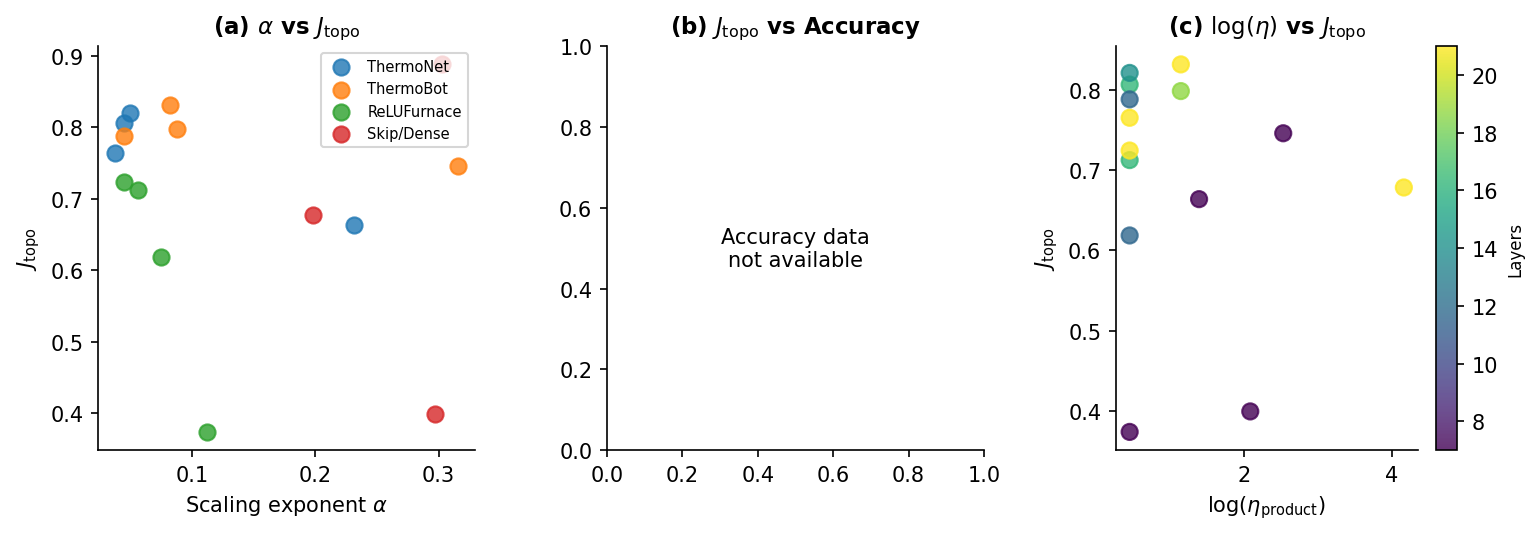
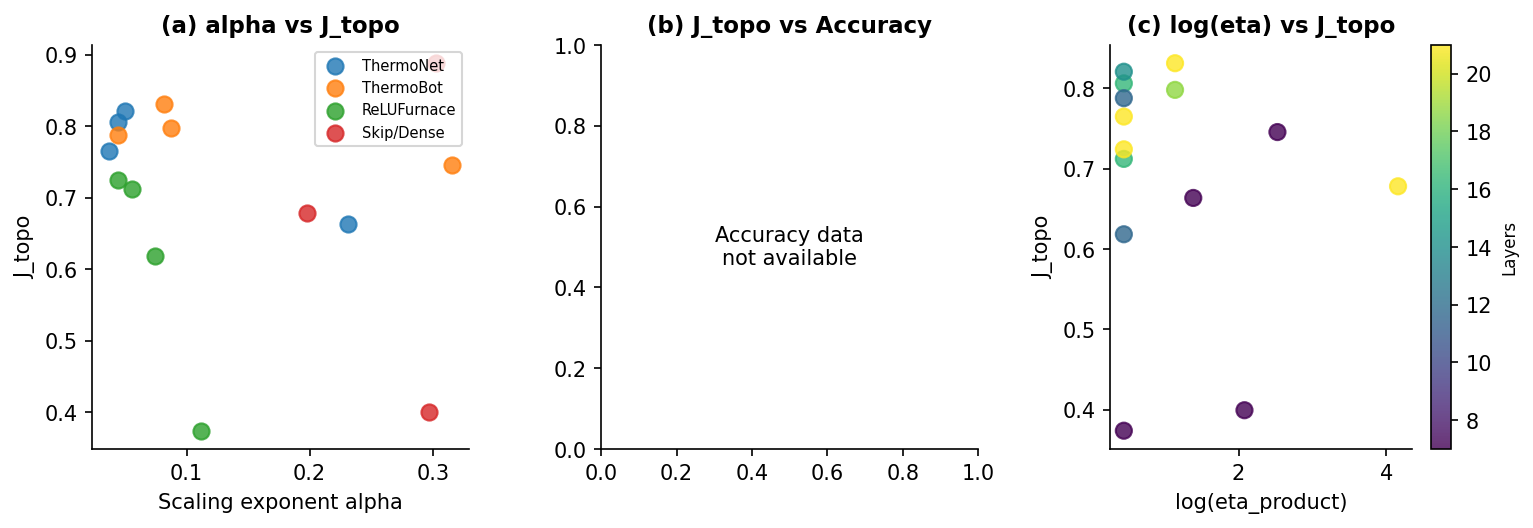
Fix LaTeX in figure titles/labels, regenerate figures locally
- Remove $\alpha$, {\mathrm{topo}}$, etc. from axis labels and panel titles
- Use plain text: alpha, J_topo, -> etc.
- Local run produced 3 figures (fig1, fig2, fig3) at dpi=150
- Note: figA1 requires Kaggle (data path /kaggle/working/)

diff --git a/papers/generate_figures.py b/papers/generate_figures.py
@@ -30,10 +30,10 @@ plt.subplots_adjust(wspace=0.35)
 ax = axes[0]
 for name, g in df.groupby('group'):
     ax.scatter(g['alpha'], g['J_topo'], label=name.replace('G1','ThermoNet').replace('G2','ThermoBot').replace('G3','ReLUFurnace').replace('G4','Skip/Dense'), alpha=0.8, s=60)
-ax.set_xlabel(r'Scaling exponent $\alpha$', fontsize=10)
-ax.set_ylabel(r'$J_{\mathrm{topo}}$', fontsize=10)
+ax.set_xlabel('Scaling exponent alpha', fontsize=10)
+ax.set_ylabel('J_topo', fontsize=10)
 ax.legend(fontsize=7, loc='upper right')
-ax.set_title(r'(a) $\alpha$ vs $J_{\mathrm{topo}}$', fontsize=11, fontweight='bold')
+ax.set_title('(a) alpha vs J_topo', fontsize=11, fontweight='bold')
 
 # Panel (b): J_topo vs Accuracy (if available)
 ax = axes[1]
@@ -41,20 +41,20 @@ has_acc = df['actual_acc'].notna().sum() > 0
 if has_acc:
     for name, g in df.groupby('group'):
         ax.scatter(g['J_topo'], g['actual_acc'], label=name, alpha=0.8, s=60)
-    ax.set_xlabel(r'$J_{\mathrm{topo}}$', fontsize=10)
+    ax.set_xlabel('J_topo', fontsize=10)
     ax.set_ylabel('Test Accuracy', fontsize=10)
-    ax.set_title(r'(b) $J_{\mathrm{topo}}$ vs Accuracy', fontsize=11, fontweight='bold')
+    ax.set_title('(b) J_topo vs Accuracy', fontsize=11, fontweight='bold')
 else:
     ax.text(0.5, 0.5, 'Accuracy data\nnot available', ha='center', va='center', transform=ax.transAxes)
-    ax.set_title(r'(b) $J_{\mathrm{topo}}$ vs Accuracy', fontsize=11, fontweight='bold')
+    ax.set_title('(b) J_topo vs Accuracy', fontsize=11, fontweight='bold')
 
 # Panel (c): eta_product vs J_topo (colored by depth)
 ax = axes[2]
 for name, g in df.groupby('group'):
     scatter = ax.scatter(np.log(g['eta_product']), g['J_topo'], c=g['num_layers'], cmap='viridis', label=name, alpha=0.8, s=60)
-ax.set_xlabel(r'$\log(\eta_{\mathrm{product}})$', fontsize=10)
-ax.set_ylabel(r'$J_{\mathrm{topo}}$', fontsize=10)
-ax.set_title(r'(c) $\log(\eta)$ vs $J_{\mathrm{topo}}$', fontsize=11, fontweight='bold')
+ax.set_xlabel('log(eta_product)', fontsize=10)
+ax.set_ylabel('J_topo', fontsize=10)
+ax.set_title('(c) log(eta) vs J_topo', fontsize=11, fontweight='bold')
 cbar = plt.colorbar(scatter, ax=ax)
 cbar.set_label('Layers', fontsize=8)
 
@@ -100,8 +100,8 @@ ax = axes[0]
 for name, g in df.groupby('group'):
     ax.scatter(g['params_M'], g['J_topo'], label=name, alpha=0.8, s=60)
 ax.set_xlabel('Parameters (M)', fontsize=10)
-ax.set_ylabel(r'$J_{\mathrm{topo}}$', fontsize=10)
-ax.set_title(r'(a) Width vs $J_{\mathrm{topo}}$ confounding', fontsize=11, fontweight='bold')
+ax.set_ylabel('J_topo', fontsize=10)
+ax.set_title('(a) Width vs J_topo confounding', fontsize=11, fontweight='bold')
 ax.legend(fontsize=7)
 
 # Panel (b): HBO vs Random ranking
